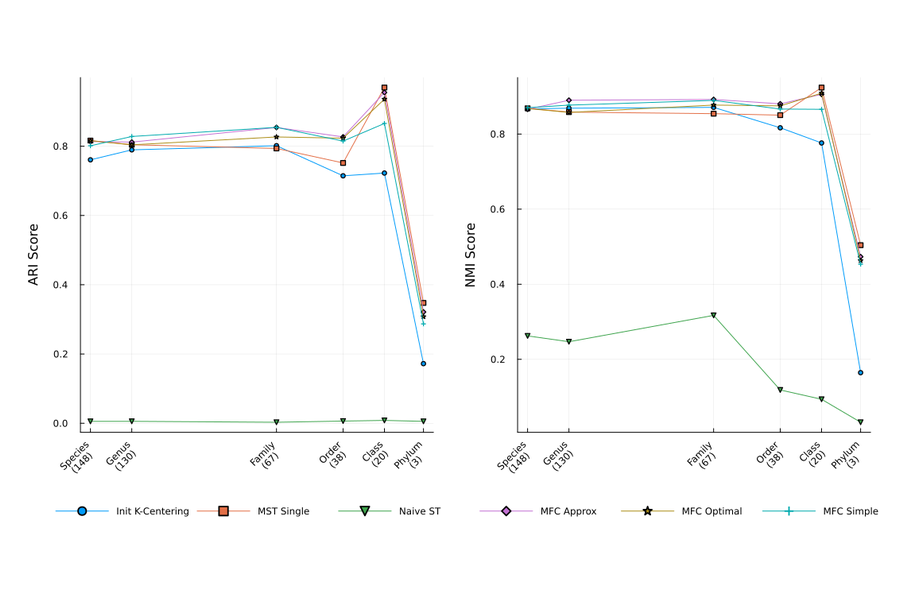
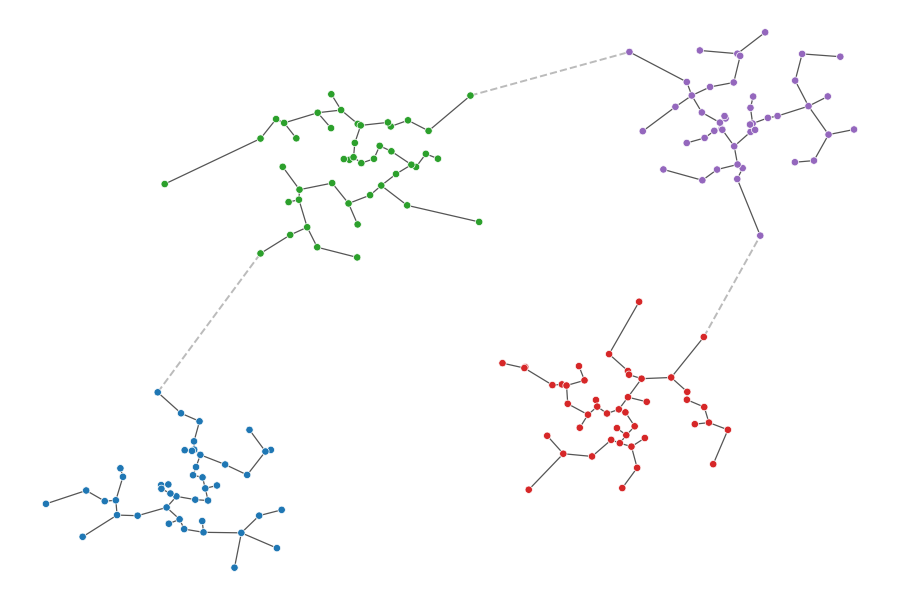
Site: shorter copy, better card images, Portland location

diff --git a/index.md b/index.md
@@ -5,40 +5,40 @@ permalink: /
 author_profile: true
 feature_row:
   - image_path: /assets/images/p1-card.png
-    alt: "SleeperDiff framework diagram"
+    alt: "Original and transformed images from the attack"
     title: "SleeperDiff"
-    excerpt: "Adversarial images that look normal until a specific edit, like a blur, gets applied. Built on Stable Diffusion. Under blur it worked 72% of the time, under scaling almost never, and it transferred poorly to other models. The report says why. AI Security course, team of three. [Code on GitHub](https://github.com/gavingleinig/semantic-transformation-adv-attack)"
+    excerpt: "Images that fool a classifier only after they get blurred. It worked 72% of the time under blur and almost never under scaling. Team of three. [Code](https://github.com/gavingleinig/semantic-transformation-adv-attack)"
     url: /assets/reports/p1-sleeperdiff.pdf
     btn_label: "Report (PDF)"
     btn_class: "btn--primary"
   - image_path: /assets/images/p2-card.png
     alt: "Sparse-view Gaussian splatting comparison"
     title: "Wheat Fields from Four Photos"
-    excerpt: "3D models of a wheat plot from only four camera angles, with a diffusion model I fine-tuned on the scene filling in what the cameras missed. PSNR went from 18.4 to 25.9 over the sparse baseline. Computer Vision course."
+    excerpt: "3D models of a wheat plot from just four camera angles, with a fine-tuned diffusion model filling in what the cameras missed."
     url: /assets/reports/p2-wheat-results.pdf
     btn_label: "Write-up (PDF)"
     btn_class: "btn--primary"
   - image_path: /assets/images/p4-card.png
-    alt: "Mean cluster metrics across taxonomic levels"
+    alt: "Illustration of single-linkage clustering by cutting the longest spanning-tree edges"
     title: "Faster Clustering with Approximate MSTs"
-    excerpt: "Single-linkage clustering normally needs an exact minimum spanning tree, which means every pairwise distance. We implemented a subquadratic approximation in Julia and tested whether its trees are good enough to cluster with. On synthetic data it nearly matched the exact tree, on noisy genomic data it did better, and on recipes nothing worked. Algorithms course, team of two. [Code on GitHub](https://github.com/gavingleinig/MFC-Julia)"
+    excerpt: "A faster, approximate way to do single-linkage clustering, written in Julia. It held up on synthetic and genomic data and fell apart on recipes. Team of two. [Code](https://github.com/gavingleinig/MFC-Julia)"
     url: /assets/reports/p4-mst-clustering.pdf
     btn_label: "Report (PDF)"
     btn_class: "btn--primary"
   - image_path: /assets/images/p3-card.png
-    alt: "RAG privacy policy classification dataflow"
+    alt: "A privacy policy segment with its labels highlighted"
     title: "RAG for Privacy Policies"
-    excerpt: "Does handing GPT-3.5 the actual GDPR text help it classify privacy policies? Mostly no, but it cut the segments the model gave up on by about half. Data Analytics and Cyber Security course, team of two."
+    excerpt: "Does giving GPT-3.5 the GDPR text help it label privacy policies? Mostly no. Team of two."
     url: /assets/reports/p3-rag-privacy.pdf
     btn_label: "Report (PDF)"
     btn_class: "btn--primary"
 ---
 
-I'm Gavin. I finished my Master's in Computer Science at Texas A&M in May 2026, a year after my B.S. there.
+I'm Gavin. I finished my Master's in Computer Science at Texas A&M in May 2026.
 
-Since graduating I've been doing independent consulting for a few small businesses in Texas. I sit with the owner or the bookkeeper, work out what is actually slowing them down, then build it: a warehouse that joins a restaurant's sales, payroll and arcade feeds into a daily scorecard, a pipeline that turns handwritten field test sheets into database records, a support inbox that sorts its own mail. I build mostly in Python and SQL, with agentic coding tools doing a lot of the typing. I'm now looking for a full-time engineering role on a team working on hard problems.
+Since then I've been building software for a few small businesses in Texas. I sit down with the people who'll use it, figure out what's slowing them down, and build the fix, mostly in Python and SQL with agentic coding tools. I'm looking for a full-time engineering role on a team working on hard problems.
 
-In school I gravitated toward computer vision and security, and especially where the two meet. Below are four graduate projects. The reports say what did not work as well as what did.
+Below are four grad school projects. The reports cover what didn't work as well as what did.
 
 {% include feature_row %}
 
